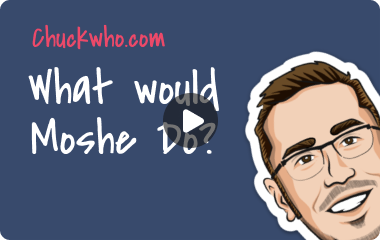
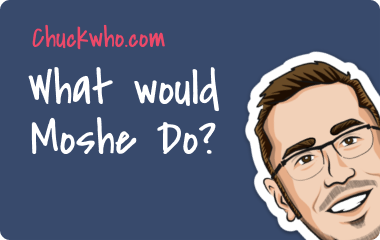
fix bottom image links

Changed region(s): [[0.4053, 0.3792, 0.5789, 0.6417]]

diff --git a/index.css b/index.css
@@ -163,6 +163,18 @@ header {
   width: 100%;
 }
 
+header.sticky {
+  position: sticky;
+  top: 10px;
+  z-index: 9;
+  width: auto;
+  margin: -41px;
+}
+
+.scrolled header.sticky {
+  background: #201885;
+}
+
 ul#main-menu li {
   position: relative;
   cursor: pointer;
@@ -466,6 +478,16 @@ page-home .hero-inner > h1 {
 a.creator img {
   max-width: 100%;
   height: auto;
+}
+
+a.creator::after {
+  position: absolute;
+  top: calc(50% - 55px);
+  left: calc(50% - 55px);
+  z-index: 1;
+  transform: scale(0.5);
+  content: url(./images/play.png);
+  pointer-events: none;
 }
 
 .featuring-data > a:last-child {
@@ -895,6 +917,9 @@ fc-checkbox[checked] + span {
   -moz-transform: scale(0.93);
   -ms-transform: scale(0.93);
   transform: scale(0.93);
+}
+
+.creator:hover .hi-icon {
   -webkit-animation: pulse 1.3s ease-out infinite 75ms;
   -moz-animation: pulse 1.3s ease-out infinite 75ms;
   animation: pulse 1.3s ease-out infinite 75ms;

diff --git a/client/app.js b/client/app.js
@@ -36,7 +36,9 @@ export class App extends LitElement {
     const topic = getTopicFromURL();
     const { pathname } = location;
 
-    return html` <header>
+    return html` <header
+        class="${pathname.includes('notepad') ? 'sticky' : ''}"
+      >
         <div class="container">
           <div class="header-inner">
             ${Logo()}
@@ -113,9 +115,27 @@ export class App extends LitElement {
     return this;
   }
 
+  spyScroll() {
+    const myID = document.body;
+    const y = window.scrollY;
+    if (y >= 278) {
+      myID.classList.add('scrolled');
+    } else {
+      myID.classList.remove('scrolled');
+    }
+  }
+
   /** @inheritdoc */
   firstUpdated() {
     attachRouter(this.querySelector('main'));
+    const that = this;
+    window.addEventListener(
+      'scroll',
+      function () {
+        that.spyScroll();
+      },
+      false
+    );
   }
 }
 
